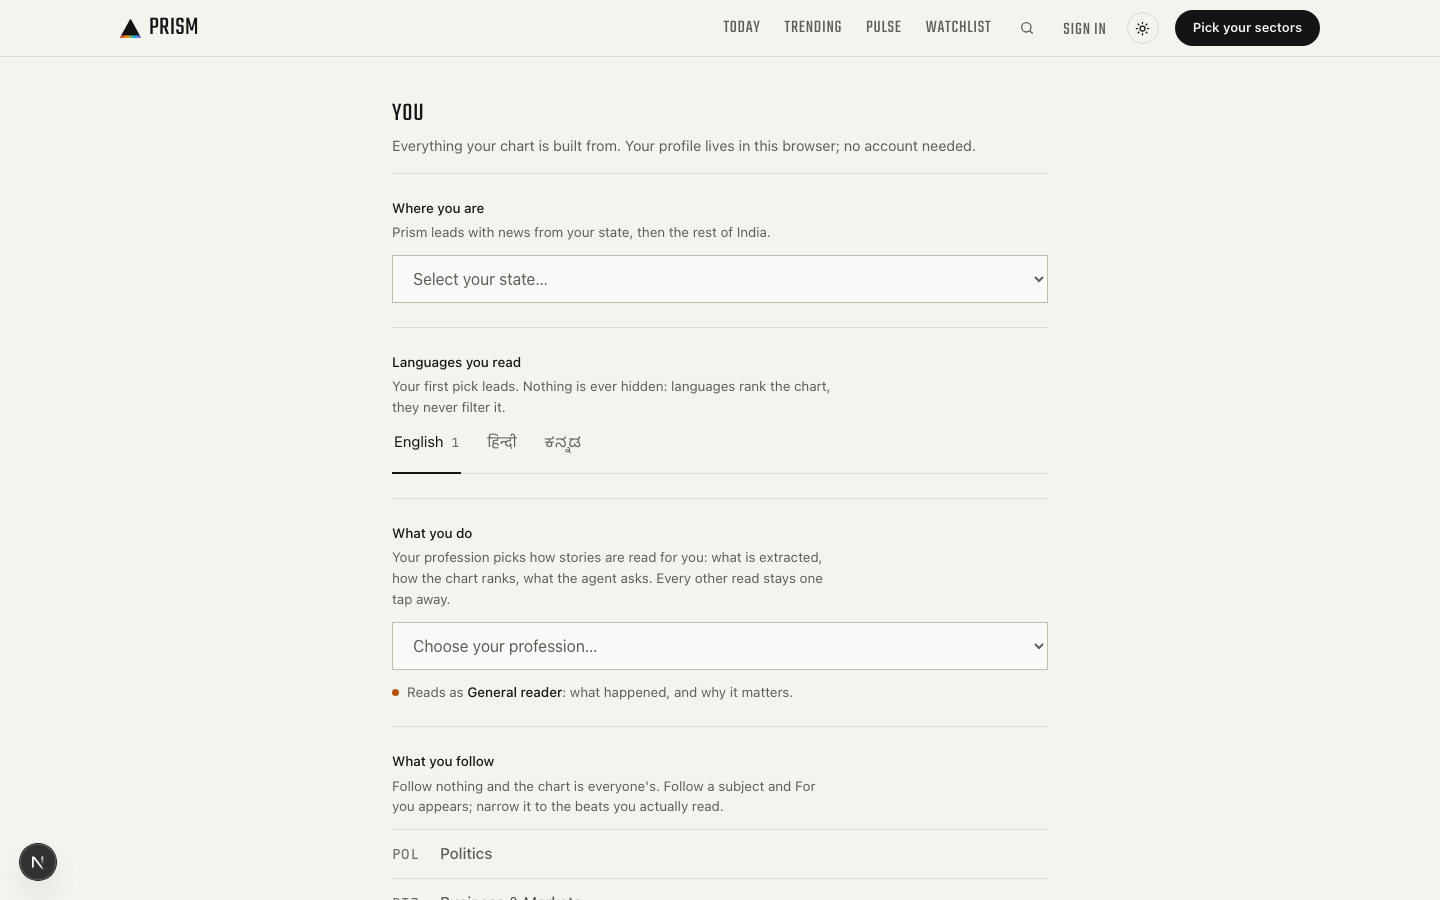
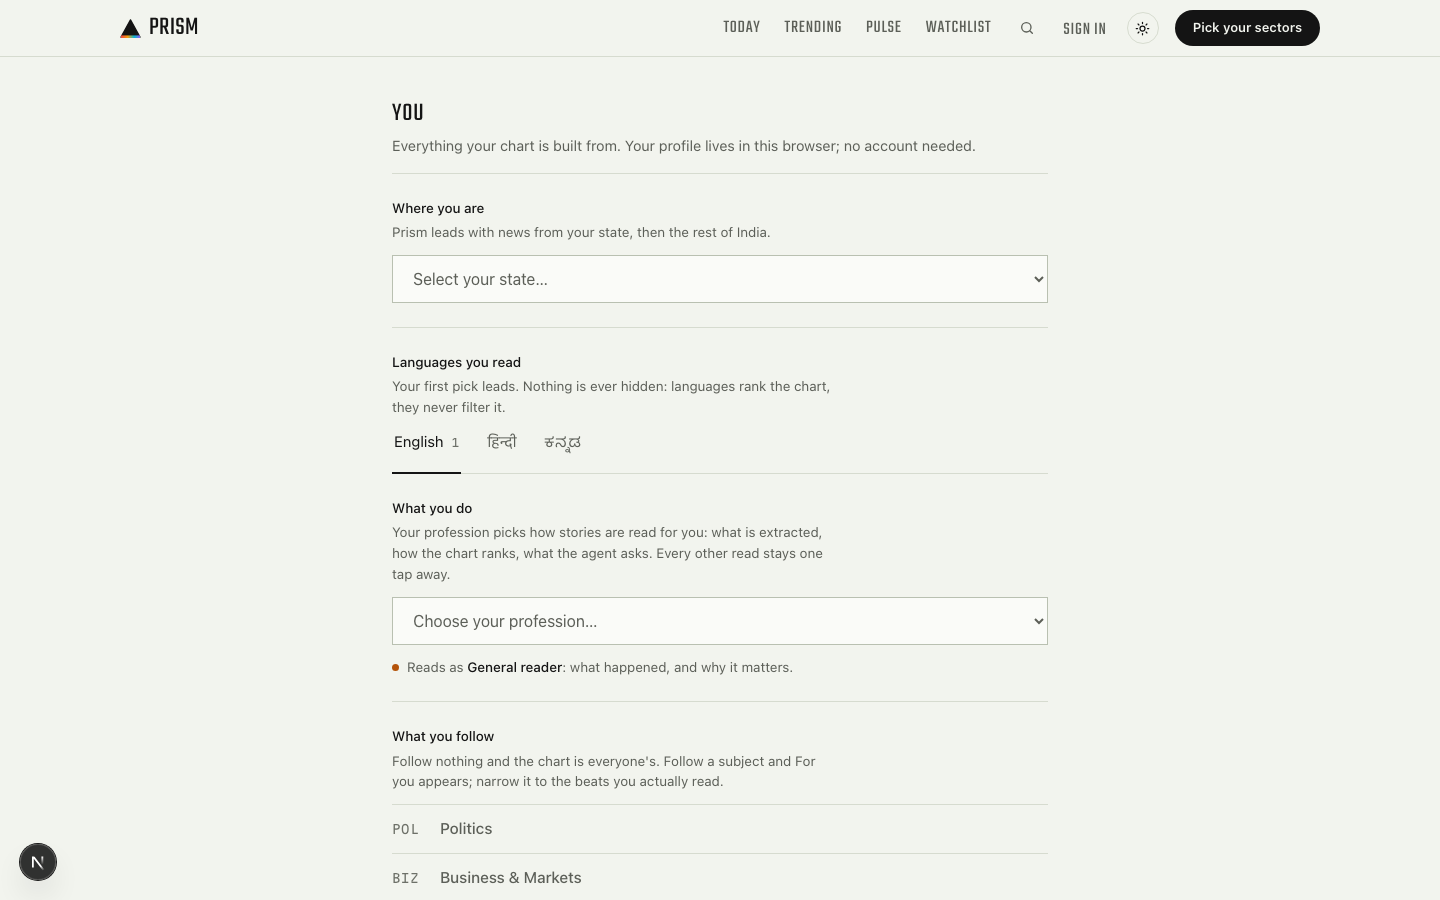
fix(redesign): the verdict pass's five open items
Second verdict from the finish reviewer: three partials and one regression.
The masthead's second line wraps at 390 instead of clipping the sources
count; the points heading on the brief ("What to watch next") joins the
Teko heading voice with a lens-hued rule mark for a bullet; the languages
field's tab rail sits on the next field's rule rather than 14px above it;
the Ask sheet loses its last two text glyphs (◮ ↑) and takes the Teko head.
The phone search "regression" was the capture replaying a saved scroll
offset (useScrollRestore), not the page.

Changed region(s): [[0.2812, 0.56, 0.5625, 0.7778], [0.25, 0.8089, 0.5625, 1.0]]

diff --git a/web/src/components/ReservationForm.tsx b/web/src/components/ReservationForm.tsx
@@ -18,9 +18,9 @@ import { fetchLanguages, type LanguageOption } from "@/lib/session";
 import { lensMeta } from "@/lib/lenses";
 import { SECTOR_GROUPS } from "@/lib/sectors";
 
-export function Field({ label, hint, children }: { label: string; hint?: string; children: React.ReactNode }) {
+export function Field({ label, hint, flush = false, children }: { label: string; hint?: string; /** The control ends on the next field's rule (a tab rail), so no bottom padding. */ flush?: boolean; children: React.ReactNode }) {
   return (
-    <div className="rule-live py-6">
+    <div className={`rule-live pt-6 ${flush ? "" : "pb-6"}`}>
       <p className="text-[13.5px] font-medium" style={{ color: "var(--ink)" }}>{label}</p>
       {hint && <p className="mt-1 max-w-[52ch] text-[13.5px] leading-[1.55]" style={{ color: "var(--ink-muted)" }}>{hint}</p>}
       <div className="mt-3">{children}</div>
@@ -54,8 +54,8 @@ export function LanguagesField({ value, onChange, options }: { value: string[]; 
     } else onChange([...value, code]);
   };
   return (
-    <Field label="Languages you read" hint="Your first pick leads. Nothing is ever hidden: languages rank the chart, they never filter it.">
-      <div className="flex flex-wrap gap-x-6 gap-y-2 border-b" style={{ borderColor: "var(--line)" }}>
+    <Field label="Languages you read" hint="Your first pick leads. Nothing is ever hidden: languages rank the chart, they never filter it." flush>
+      <div className="flex flex-wrap gap-x-6 gap-y-2">
         {options.map((l) => {
           const idx = value.indexOf(l.code);
           const sel = idx >= 0;

diff --git a/web/src/components/AskPanel.tsx b/web/src/components/AskPanel.tsx
@@ -1,5 +1,7 @@
 "use client";
 
+import { ArrowUp } from "@/components/icons";
+
 // The grounded per-story agent, redesigned as a floating chat panel
 // (collapsed pill bottom-right → chat). Answers stream from the story's own
 // sources with numbered citations; a refusal renders as a first-class state.
@@ -136,11 +138,8 @@ export function AskPanel({
         >
           {!docked && (
             <div className="flex items-center gap-2.5 border-b px-[18px] py-3.5" style={{ borderColor: "var(--line)" }}>
-              <span className="spectrum-text text-base" aria-hidden>
-                ◮
-              </span>
               <div className="min-w-0 flex-1">
-                <p className="text-sm font-semibold">Ask this story</p>
+                <p className="font-display text-[20px] font-medium uppercase leading-none tracking-[0.03em]">Ask this story</p>
                 <p className="text-[11px]" style={{ color: "var(--ink-faint)" }}>
                   Answers only from this story&apos;s {sourceCount} source{sourceCount === 1 ? "" : "s"}, with
                   citations.
@@ -250,10 +249,10 @@ export function AskPanel({
             <button
               onClick={() => submit(input)}
               aria-label="Send"
-              className="h-[38px] w-[38px] rounded-full text-[15px]"
+              className="flex h-[38px] w-[38px] items-center justify-center rounded-full"
               style={{ background: "var(--ink)", color: "var(--bg)" }}
             >
-              ↑
+              <ArrowUp size={15} />
             </button>
           </div>
         </div>

diff --git a/web/src/components/BriefPlayer.tsx b/web/src/components/BriefPlayer.tsx
@@ -162,7 +162,7 @@ export function BriefPlayer({
 
       {points.length > 0 && (
         <div>
-          <h3 className="mb-1.5 text-[11px] font-semibold uppercase tracking-[0.14em]" style={{ color: "var(--ink-faint)" }}>
+          <h3 className="mb-2 font-display text-[20px] font-medium uppercase leading-none tracking-[0.03em]">
             {pointsHeading}
           </h3>
           <ul className="flex flex-col gap-1.5">
@@ -170,9 +170,7 @@ export function BriefPlayer({
               const isActive = active === briefSentences.length + i;
               return (
                 <li key={pt} className="flex gap-2 text-[13.5px] leading-[1.55]" style={{ color: isActive ? "var(--ink)" : "var(--ink-muted)" }}>
-                  <span aria-hidden style={{ color: meta.color }}>
-                    ◆
-                  </span>
+                  <span aria-hidden className="mt-[9px] inline-block h-[2px] w-3 shrink-0" style={{ background: meta.color }} />
                   <span style={isActive ? spoken : undefined}>{pt}</span>
                 </li>
               );

diff --git a/web/src/components/Masthead.tsx b/web/src/components/Masthead.tsx
@@ -28,7 +28,7 @@ export function Masthead({ dateline, right }: { dateline: string | null; right?:
           </span>
         </Link>
         {dateline && (
-          <p className="mt-1.5 truncate font-mono text-[12px] tracking-[0.04em]" style={{ color: "var(--ink-muted)" }}>
+          <p className="mt-1.5 font-mono text-[12px] leading-[1.5] tracking-[0.04em]" style={{ color: "var(--ink-muted)" }}>
             {dateline}
           </p>
         )}
